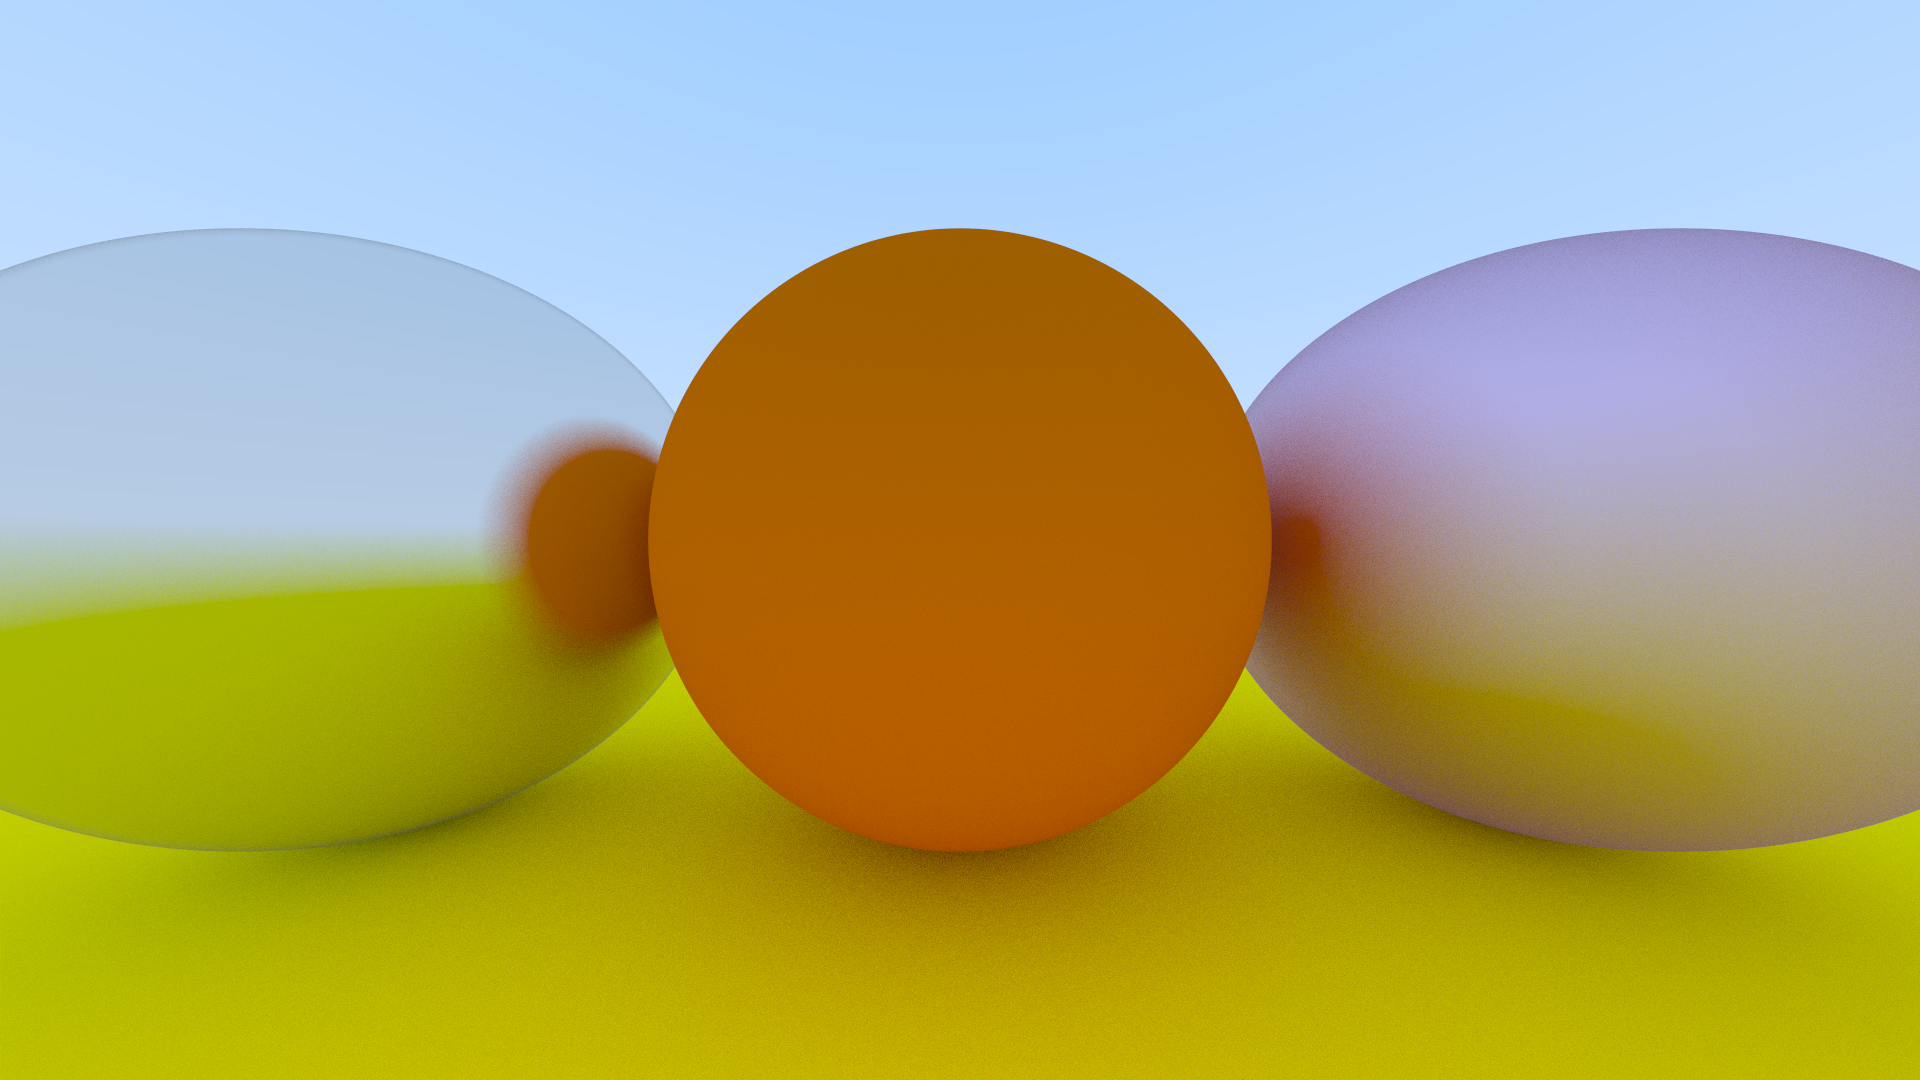
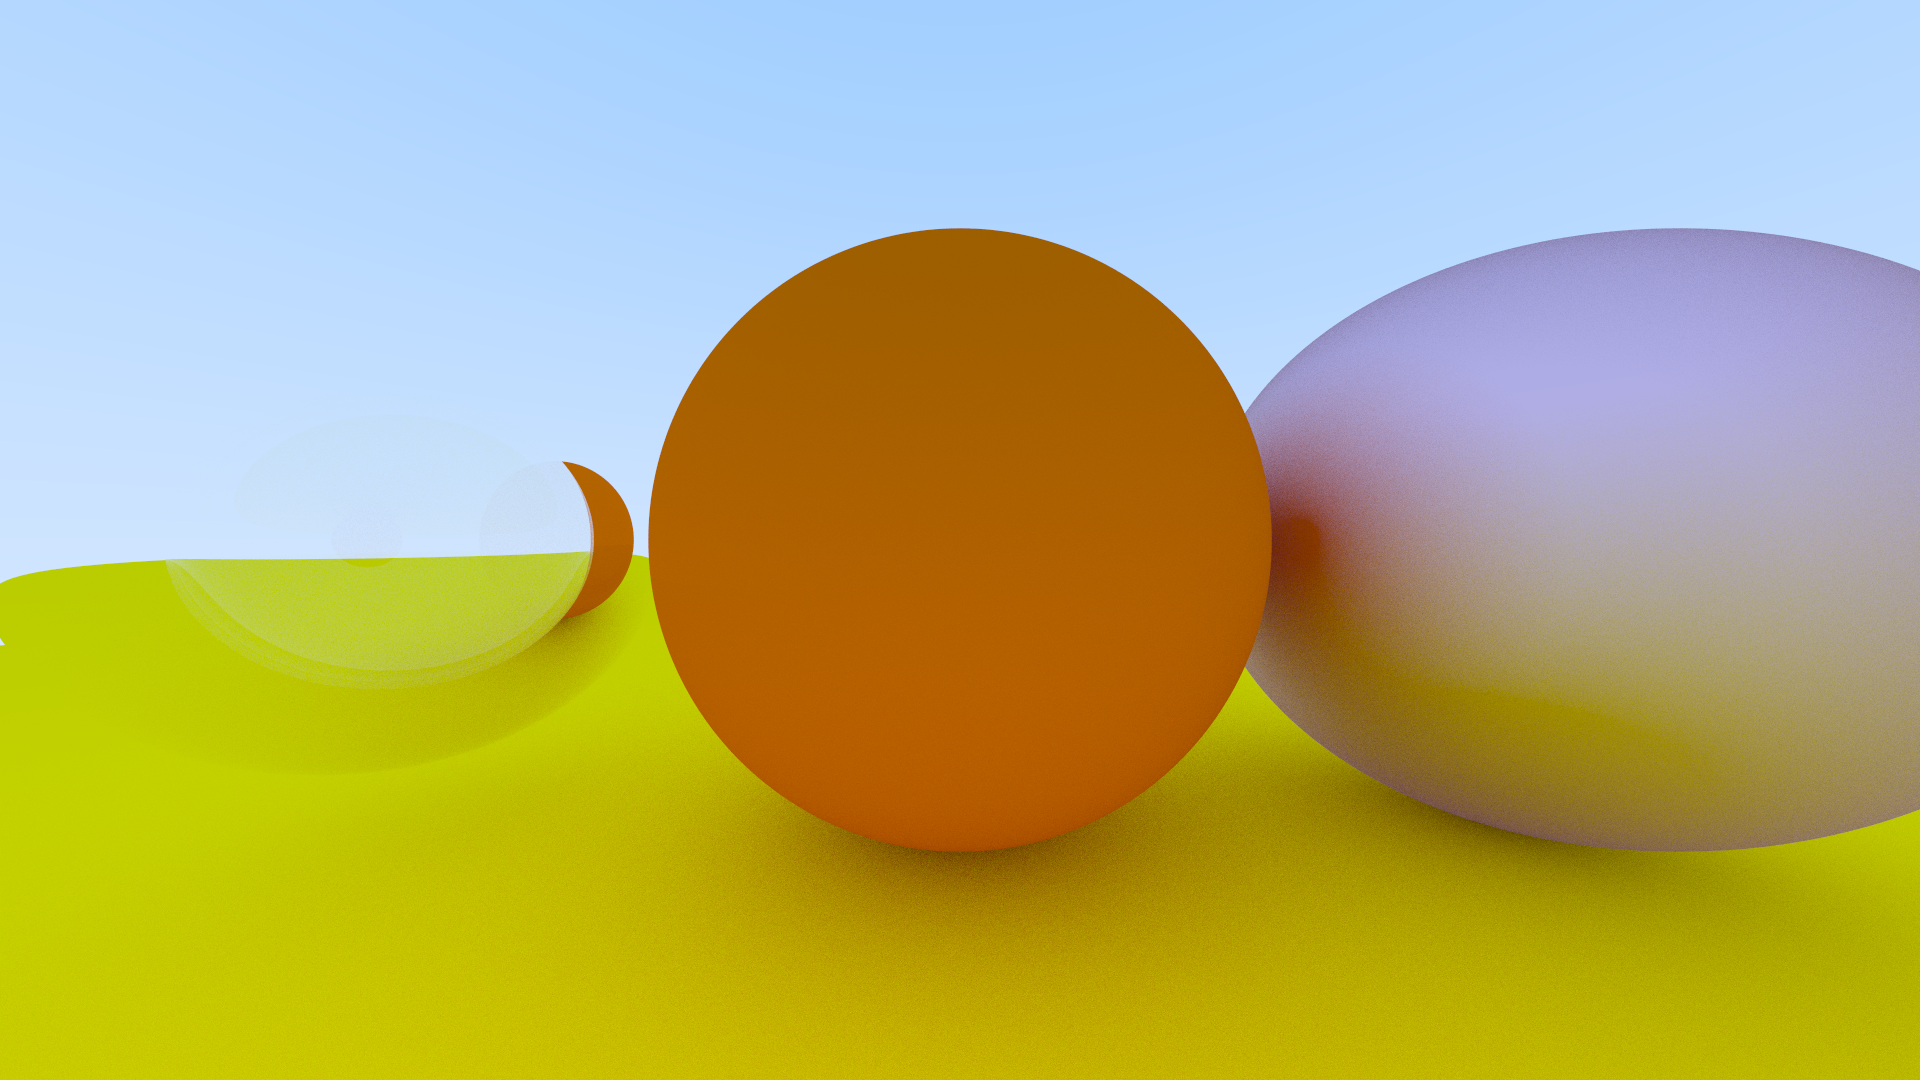
dielectric working i guess

Changed region(s): [[0.0, 0.2139, 0.4375, 0.8861]]

diff --git a/vexray/src/lib.rs b/vexray/src/lib.rs
@@ -44,11 +44,14 @@ fn create_demo_scene() -> scene::Scene {
 
     let diffuse_mat_2 = scene.register_material(Material::Diffuse(glam::vec3(0.8, 0.2, 0.0)));
 
-    let metal_mat_1 = scene.register_material(Material::Metal(glam::vec3(0.8, 0.8, 0.8), 0.2));
+    // let metal_mat_1 = scene.register_material(Material::Metal(glam::vec3(0.8, 0.8, 0.8), 0.2));
 
     let metal_mat_2 = scene.register_material(Material::Metal(glam::vec3(0.8, 0.6, 0.8), 0.8));
 
-    let sphere_1 = Shape::Sphere(glam::vec3(-1.0, 0.0, -1.0), 0.5, metal_mat_1);
+    let dielectric_mat_1 = scene.register_material(Material::Dielectric(1.5));
+
+    // -ve radius with a di-electric creates a hollow glass bubble
+    let sphere_1 = Shape::Sphere(glam::vec3(-1.0, 0.0, -1.0), -0.4, dielectric_mat_1);
     let sphere_2 = Shape::Sphere(glam::vec3(0.0, 0.0, -1.0), 0.5, diffuse_mat_2);
     let sphere_3 = Shape::Sphere(glam::vec3(1.0, 0.0, -1.0), 0.5, metal_mat_2);
 
